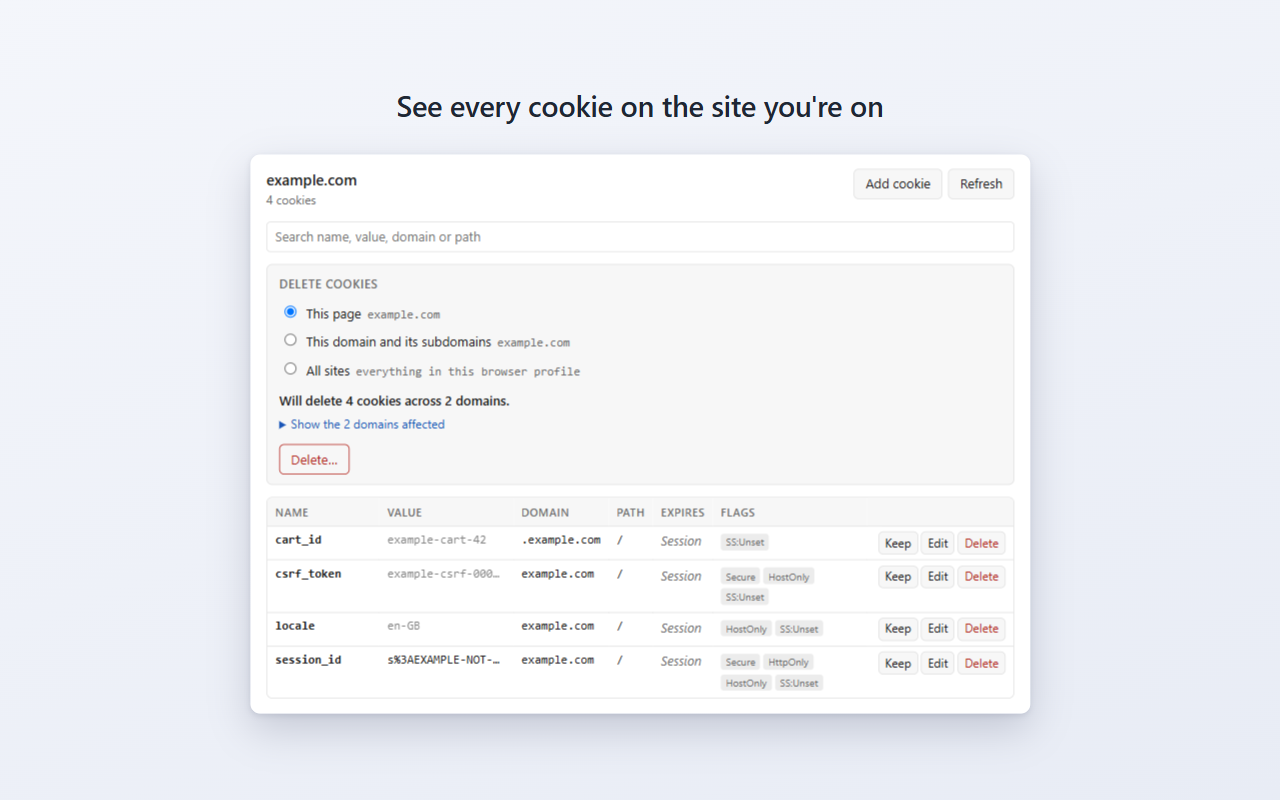
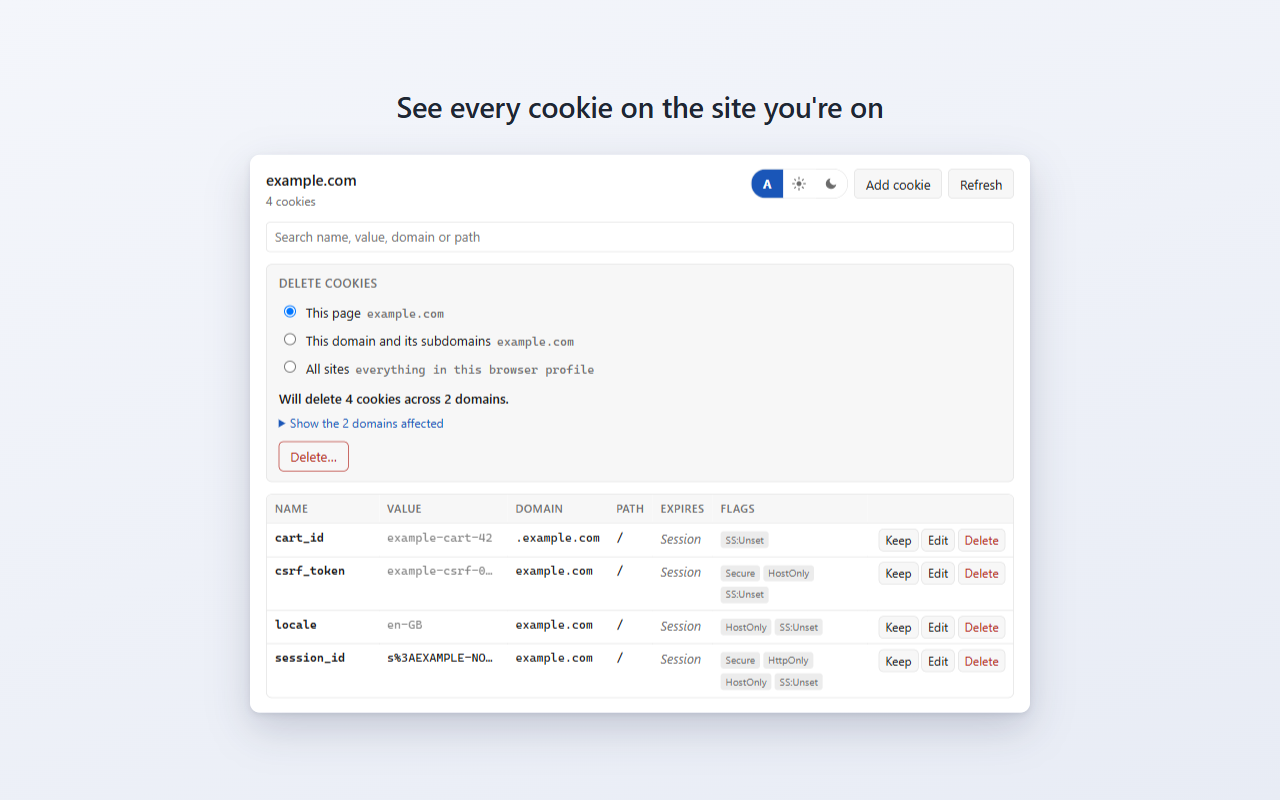
Refresh the store screenshots and listing for 1.0.0
Screenshots regenerated to show the theme switch and the table without
its scrollbar. The description now says four delete scopes, not three,
and mentions the colour theme.

diff --git a/store/LISTING.md b/store/LISTING.md
@@ -50,8 +50,9 @@ WHAT IT DOES
   flags: Secure, HttpOnly, HostOnly, SameSite and partitioned (CHIPS).
 
 • Deletes cookies at three scopes: this page, this domain and its subdomains,
-  or every site in your browser profile. Before anything is removed you see
-  the exact count and the exact list of domains affected.
+  or every site in your browser profile, plus a fourth while searching (below).
+  Before anything is removed you see the exact count and the exact list of
+  domains affected.
 
 • Creates and edits cookies: name, value, domain, path, expiry, Secure,
   HttpOnly and SameSite.
@@ -65,6 +66,8 @@ WHAT IT DOES
 
 • Works in incognito, with incognito cookies kept properly separate from your
   normal browsing.
+
+• Light, dark, or follows your system setting.
 
 
 DELETE ALL ACTUALLY MEANS ALL
